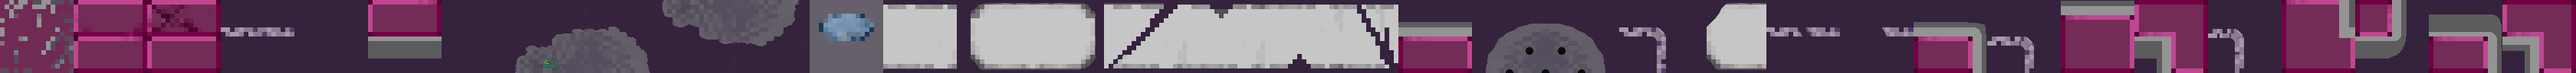
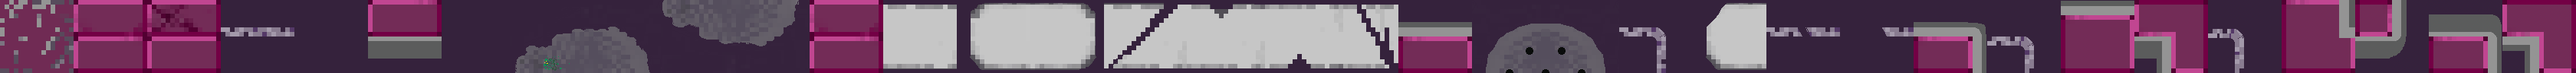
dicoration

Changed region(s): [[0.3125, 0.0, 0.3438, 1.0]]

diff --git a/src/scenes/GameScene.ts b/src/scenes/GameScene.ts
@@ -32,6 +32,11 @@ export default class GameScene extends Phaser.Scene
         this.load.image('chest_opened', 'assets/chest_opened.png');
         this.load.image('box', 'assets/box.png');
 
+        this.load.image('obj1', 'assets/gameObj.png');
+        this.load.image('obj2', 'assets/gameObj2.png');
+        this.load.image('obj3', 'assets/gameObj3.png');
+        
+
         this.load.spritesheet('heroStandAnim', 'assets/character/hero_animation.png', { frameWidth: 68, frameHeight: 104 });
         this.load.spritesheet('heroMoove', 'assets/character/hero_left_right.png', { frameWidth: 72, frameHeight: 104 });
         this.load.spritesheet('heroUlt', 'assets/character/hero_ult.png', { frameWidth: 340, frameHeight: 256 });
@@ -54,7 +59,31 @@ export default class GameScene extends Phaser.Scene
         this.load.tilemapTiledJSON('map','assets/streetmap.json');
         this.load.image('floor','assets/floor2.png');
 
-        this.load.spritesheet('delorean_sheet', 'assets/delorean_sheet.png');
+        this.load.image('h1', 'assets/peaces/дом1.png')
+        this.load.image('h2', 'assets/peaces/дом2.png')
+        this.load.image('h3', 'assets/peaces/дом3.png')
+        this.load.image('h4', 'assets/peaces/дом4.png')
+        this.load.image('h5', 'assets/peaces/дом5.png')
+        this.load.image('h6', 'assets/peaces/дом6.png')
+        this.load.image('h7', 'assets/peaces/дом7.png')
+        this.load.image('h8', 'assets/peaces/дом8.png')
+        this.load.image('h9', 'assets/peaces/дом9.png')
+        this.load.image('h10', 'assets/peaces/дом10.png')
+        this.load.image('h11', 'assets/peaces/дом11.png')
+        this.load.image('h12', 'assets/peaces/дом12.png')
+        this.load.image('h13', 'assets/peaces/дом13.png')
+        this.load.image('h14', 'assets/peaces/дом14.png')
+        this.load.image('h15', 'assets/peaces/дом15.png')
+        this.load.image('h16', 'assets/peaces/дом16.png')
+        this.load.image('h17', 'assets/peaces/дом17.png')
+        this.load.image('h18', 'assets/peaces/дом18.png')
+        this.load.image('h19', 'assets/peaces/дом19.png')
+        this.load.image('h20', 'assets/peaces/до20.png')
+        this.load.image('h21', 'assets/peaces/дом21.png')
+        this.load.image('h22', 'assets/peaces/vice-city.png')
+        this.load.image('del', 'assets/peaces/Delorean.png')
+
+        // this.load.spritesheet('delorean_sheet', 'assets/delorean_sheet.png');
     }
 
     create()
@@ -62,39 +91,102 @@ export default class GameScene extends Phaser.Scene
         const map = this.make.tilemap({ key:'map', tileWidth: 96, tileHeight: 96});
         const styleSet=map.addTilesetImage('streetTileSet','floor')
         map.createLayer('ground',styleSet)
+        const walls = map.createLayer('wall', styleSet)
         this.cursors = this.input.keyboard.createCursorKeys();
+
+        ///////////////////////////////////
+
+        this.add.image(400, 120, 'h1')
+        this.add.image(860, 120, 'h2')
+        this.add.image(1620, 120, 'h7')
+        this.add.image(1270, 120, 'h3')
+        this.add.image(1900, 120, 'h7')
+        this.add.image(2200, 120, 'h7')
+        this.add.image(3300, 120, 'h7')
+        this.add.image(3400, 120, 'h7')
+        this.add.image(3700, 120, 'h7')
+        this.add.image(4000, 120, 'h7')
+        this.add.image(4300, 120, 'h7')
+        this.add.image(4600, 120, 'h7')
+        this.add.image(4376, 360, 'h8')
+        this.add.image(2900, 120, 'h7')
+        this.add.image(3150, 120, 'h10')
+        this.add.image(2550, 120, 'h4')
+        this.add.image(5500, 1220, 'h8')
+        this.add.image(5530, 1250, 'h22')
+        this.add.image(5200, 1256, 'h16')
+
+        this.add.image(5200, 1150, 'h17')
+        this.add.image(5760, 1215, 'h5')
+        this.add.image(5760, 170, 'h7')
+        this.add.image(6050, 170, 'h13')
+        this.add.image(6430, 170, 'h6')
+        this.add.image(6800, 170, 'h7')
+        this.add.image(7400, 170, 'h7')
+        this.add.image(7700, 170, 'h7')
+        this.add.image(7100, 170, 'h7')
+        this.add.image(8300, 170, 'h7')
+        this.add.image(8600, 170, 'h7')
+        this.add.image(9200, 170, 'h7')
+        this.add.image(9500, 170, 'h7')
+        this.add.image(8900, 170, 'h7')
+        this.add.image(8000, 170, 'h4')
+        this.add.image(8900, 570, 'del').setScale(1.5)
+
+
+        /////////////////////////////////////
 
         this.initHero();
         this.initEnemies();
         this.initLasers();
         this.initChests();
 
-        this.spike = new Spike(this, 300, 100, 'spike', this.add.sprite(0, 0, 'box'));
-        this.spike.setSize(56, 164);
+        this.add.image(4470, 900, 'h14')
+
+        ////////////////
+        walls.setCollisionByProperty({collides: true})
+
+        const platforms = this.physics.add.staticGroup();
+        // platforms.create(300, 600, 'obj1').setScale(0.5)
+
+
+        this.physics.add.collider(this.hero, platforms)
+        this.physics.add.collider(this.hero, walls)
+
+
+        //////////////
+
+        // this.spike = new Spike(this, 300, 100, 'spike', this.add.sprite(0, 0, 'box'));
+        // this.spike.setSize(56, 164);
     }
     
     update(t: number, dt: number)
     {
         this.hero.update(this.cursors, this.enemies);
         this.enemies.forEach(e => e.update(t, dt));
-        this.spike.update(this.hero);
+        // this.spike.update(this.hero);
     }
 
     private initHero() {
         CharacterAnims(this.anims);
-        this.hero = this.add.hero(100, 400, 'heroStandAnim');
-        this.cameras.main.startFollow(this.hero);
-        this.cameras.main.setLerp(1, 0);
+        this.hero = this.add.hero(1000, 360, 'heroStandAnim');
+        if(this.hero.x > 900){
+            this.cameras.main.startFollow(this.hero);
+            // this.cameras.main.setLerp(1, 0);
+        }else{
+            this.cameras.main.x = 900
+        }
     }
 
     private initEnemies() {
-        const _hero = this.hero as Hero;
-        this.enemies = [new Enemy(this, 250, 100, 'enemyStatic', _hero, 'timingEnemy')];
+        this.enemies = [new Enemy(this, 250, 300, 'enemyStatic', this.hero as Hero, 'timingEnemy'), new Enemy(this, 400, 300, 'enemyStatic', this.hero as Hero, 'timingEnemy')];
+
         // this.physics.add.collider(this.hero, this.enemies);
     }
 
     private initLasers() {
-        this.lasers = [new Laser(this, 300, 100, 'laser'), new Laser(this, 500, 100, 'laser')];
+        // this.lasers = [new Laser(this, 300, 100, 'laser'), new Laser(this, 500, 100, 'laser')];
+        this.lasers = []
 
         this.physics.add.overlap(this.hero, this.lasers, (obj1, obj2) => {
             const laser = obj2 as Laser;
@@ -111,7 +203,7 @@ export default class GameScene extends Phaser.Scene
             classType: Chest
         });
 
-        this.chests.create(600, 100, 'chest');
+        // this.chests.create(600, 100, 'chest');
         this.physics.add.overlap(this.hero, this.chests, (obj1: Phaser.GameObjects.GameObject, obj2: Phaser.GameObjects.GameObject) => {
             const hero = obj1 as Hero;
             const chest = obj2 as Chest;

diff --git a/src/сharacter/Hero.ts b/src/сharacter/Hero.ts
@@ -13,7 +13,7 @@ declare global {
 
 export default class Hero extends Phaser.Physics.Arcade.Sprite {
     public focus_radius = 80
-    public speed = 150;
+    public speed = 200;
     public health: HealthBar;
     public ultPoints: UltBar;
     public haveHit = true;
@@ -87,7 +87,7 @@ export default class Hero extends Phaser.Physics.Arcade.Sprite {
     update(cursors: Phaser.Types.Input.Keyboard.CursorKeys, enemies: Enemy[]) {
         if (cursors.left?.isDown) {
             if(this.isUlt && !this.ultPlay){
-
+                return
             }else{
                 this.setVelocityX(-this.speed);
             }
@@ -95,7 +95,7 @@ export default class Hero extends Phaser.Physics.Arcade.Sprite {
             this.walkRight = false;
             this.walkLeft = true
             if (!this.isUlt) {
-                this.anims.play('hero_left', true);
+                // this.anims.play('hero_left', true);
             }
         }
         else if (cursors.right?.isDown) {
@@ -193,7 +193,6 @@ export default class Hero extends Phaser.Physics.Arcade.Sprite {
                 }
             } else {
                 this.anims.play('hero_ult', true);
-                this._scene.sound.play('ulta_sound');
             }
             // this.anims.play('hero_ult', true)
         }

diff --git a/src/classes/enemy.ts b/src/classes/enemy.ts
@@ -44,6 +44,7 @@ export default class Enemy extends Phaser.Physics.Arcade.Sprite {
         if(!this.deathBit)
         {      
             if (Math.sqrt(Math.pow(this.x - this.target.x, 2) + Math.pow(this.y - this.target.y, 2)) <= this.DISTANCE) {
+                console.log('attack')
                 if(!this.isAwaken)
                 {
                     this.anims.play('enemy_stand',true)
@@ -133,6 +134,7 @@ export default class Enemy extends Phaser.Physics.Arcade.Sprite {
         }        
     }
     private initAnims(){
+        console.log(this.target)
         this.anims.create({
             key: 'enemy_stand',
             frames: this.scene.anims.generateFrameNumbers('enemyStatic', { start: 0, end: 3 }),
